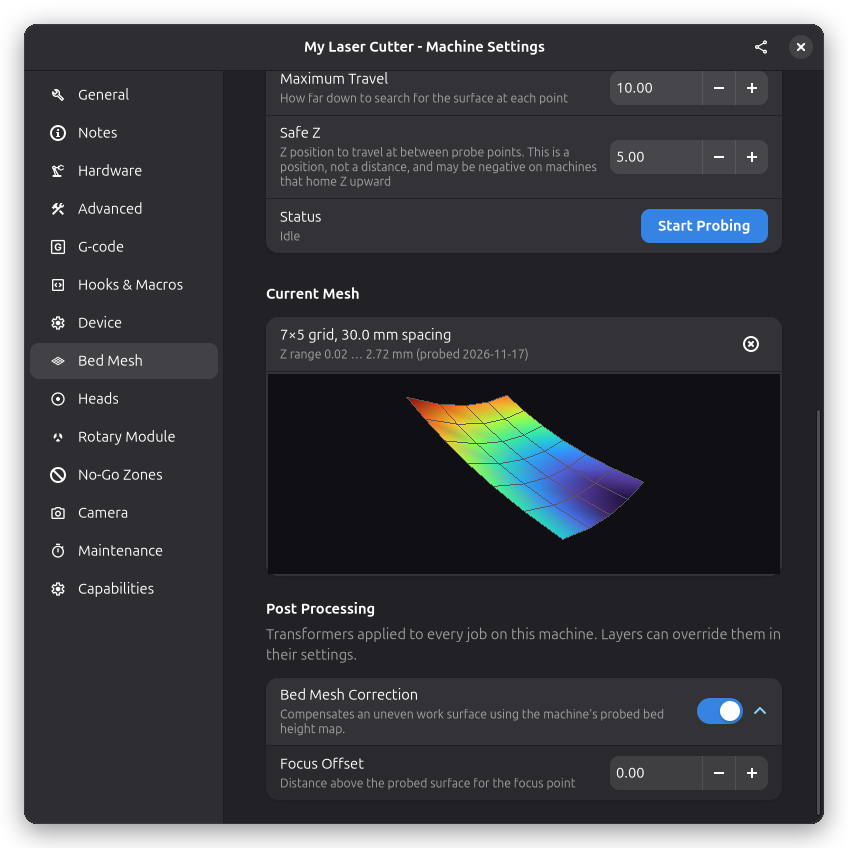
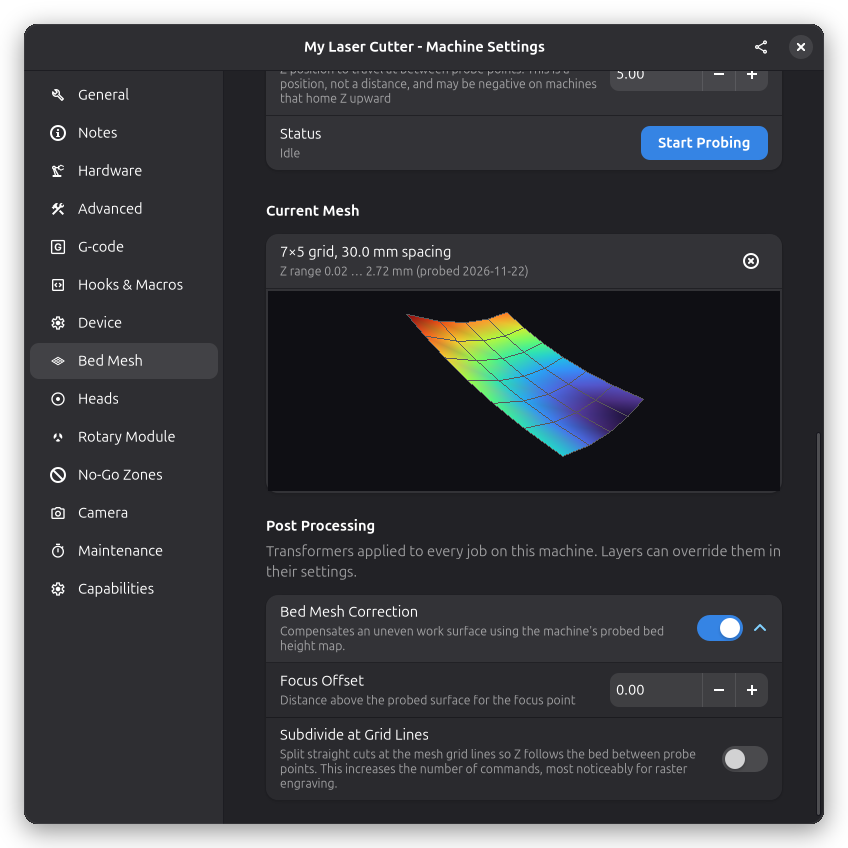
docs(machine): document bed mesh subdivision and the return lift
Describe the opt-in grid-line subdivision and the job-end lift to the probe Safe Z in the Bed Mesh page, in every tracked language, and refresh the page screenshot.

diff --git a/website/i18n/hi/docusaurus-plugin-content-docs/current/machine/bed-mesh.md b/website/i18n/hi/docusaurus-plugin-content-docs/current/machine/bed-mesh.md
@@ -1,60 +1,62 @@
 ---
 description:
-  "अपने लेज़र की कार्य सतह को ग्रिड पर जांचें और असमान बेड की स्वतः भरपाई करें। बड़ी या लहरदार बेड
-  पर फोकस बिंदु को सामग्री पर बनाए रखता है।"
+  "अपने लेज़र की कार्य सतह को ग्रिड पर जांचें और असमान बेड की स्वतः भरपाई करें। बड़ी या लहरदार बेड पर फोकस बिंदु को
+  सामग्री पर बनाए रखता है।"
 ---
 
 # बेड मेश
 
-बड़ी कार्य सतहें शायद ही कभी बिल्कुल समतल होती हैं। जब बेड की ऊंचाई आपके लेज़र की फोकस गहराई से अधिक
-बदलती है, तो सामग्री पर कट असंगत हो जाते हैं। बेड मेश सुविधा एक ग्रिड पर सतह की ऊंचाई जांचती है और
-टूलपाथ की Z-अक्ष की भरपाई करती है ताकि फोकस बिंदु वास्तविक सतह का पालन करे।
+बड़ी कार्य सतहें शायद ही कभी बिल्कुल समतल होती हैं। जब बेड की ऊंचाई आपके लेज़र की फोकस गहराई से अधिक बदलती है, तो
+सामग्री पर कट असंगत हो जाते हैं। बेड मेश सुविधा एक ग्रिड पर सतह की ऊंचाई जांचती है और टूलपाथ की Z-अक्ष की भरपाई
+करती है ताकि फोकस बिंदु वास्तविक सतह का पालन करे।
 
 ![बेड मेश](/screenshots/machine-settings-bed-mesh.webp)
 
 ## आवश्यकताएँ
 
-बेड मेश के लिए Z-अक्ष वाली मशीन और जांच (प्रोब) का समर्थन करने वाला ड्राइवर आवश्यक है (वर्तमान में
-GRBL, Marlin, Smoothie और OctoPrint)। **बेड मेश** पृष्ठ **सेटिंग्स → मशीन** में तभी दिखाई देता है जब
-दोनों स्थित हों। यह पृष्ठ डिवाइस पृष्ठ के बाद स्थित है।
+बेड मेश के लिए Z-अक्ष वाली मशीन और जांच (प्रोब) का समर्थन करने वाला ड्राइवर आवश्यक है (वर्तमान में GRBL, Marlin,
+Smoothie और OctoPrint)। **बेड मेश** पृष्ठ **सेटिंग्स → मशीन** में तभी दिखाई देता है जब दोनों स्थित हों। यह पृष्ठ
+डिवाइस पृष्ठ के बाद स्थित है।
 
 ## बेड की जांच करना
 
 **सेटिंग्स → मशीन** खोलें और **बेड मेश** पृष्ठ पर जाएँ।
 
-1. **जांच ग्रिड**: जांचने के लिए क्षेत्र (X/Y मूल, चौड़ाई, ऊंचाई) और ग्रिड घनत्व (कॉलम और पंक्तियाँ)
-   परिभाषित करें। पृष्ठ जांच बिंदुओं की संख्या और अनुमानित अवधि दिखाता है। घने ग्रिड सतह का अधिक
-   सटीक पालन करते हैं, परंतु अधिक समय लेते हैं।
-2. **जांच**: जांच फीड दर, प्रत्येक बिंदु पर सतह खोजने के लिए हेड कितना नीचे जा सकता है (अधिकतम
-   यात्रा), और बिंदुओं के बीच चलने के लिए सुरक्षित Z-ऊंचाई कॉन्फ़िगर करें। सुरक्षित Z एक स्थिति है,
-   दूरी नहीं; जिन मशीनों में Z ऊपर की ओर होम होता है, वहाँ यह ऋणात्मक हो सकती है।
-3. **जांच प्रारंभ करें** पर क्लिक करें। मशीन सर्पिल क्रम में हर ग्रिड बिंदु पर जाती है और हर जगह सतह
-   को छूती है; 3D दृश्य परिणाम आने पर लाइव भरता जाता है। आप किसी भी समय रन को रोक सकते हैं; मेश केवल
-   पूर्ण ग्रिड पूरा होने पर सहेजा जाता है।
+1. **जांच ग्रिड**: जांचने के लिए क्षेत्र (X/Y मूल, चौड़ाई, ऊंचाई) और ग्रिड घनत्व (कॉलम और पंक्तियाँ) परिभाषित करें।
+   पृष्ठ जांच बिंदुओं की संख्या और अनुमानित अवधि दिखाता है। घने ग्रिड सतह का अधिक सटीक पालन करते हैं, परंतु अधिक समय
+   लेते हैं।
+2. **जांच**: जांच फीड दर, प्रत्येक बिंदु पर सतह खोजने के लिए हेड कितना नीचे जा सकता है (अधिकतम यात्रा), और बिंदुओं के
+   बीच चलने के लिए सुरक्षित Z-ऊंचाई कॉन्फ़िगर करें। सुरक्षित Z एक स्थिति है, दूरी नहीं; जिन मशीनों में Z ऊपर की ओर होम
+   होता है, वहाँ यह ऋणात्मक हो सकती है।
+3. **जांच प्रारंभ करें** पर क्लिक करें। मशीन सर्पिल क्रम में हर ग्रिड बिंदु पर जाती है और हर जगह सतह को छूती है; 3D
+   दृश्य परिणाम आने पर लाइव भरता जाता है। आप किसी भी समय रन को रोक सकते हैं; मेश केवल पूर्ण ग्रिड पूरा होने पर
+   सहेजा जाता है।
 
-मेश मशीन प्रोफ़ाइल के साथ सहेजा जाता है और रंगीन 3D सतह के रूप में दिखाया जाता है: नीले क्षेत्र नीचे
-और लाल क्षेत्र ऊपर होते हैं। यदि आप ऊंचाई मुआवज़ा नहीं चाहते तो **मेश हटाएं** बटन से इसे हटा दें।
+मेश मशीन प्रोफ़ाइल के साथ सहेजा जाता है और रंगीन 3D सतह के रूप में दिखाया जाता है: नीले क्षेत्र नीचे और लाल क्षेत्र ऊपर
+होते हैं। यदि आप ऊंचाई मुआवज़ा नहीं चाहते तो **मेश हटाएं** बटन से इसे हटा दें।
 
-:::note जांच के दौरान हेड पूरे ग्रिड क्षेत्र पर चलता है। बेड से ऐसी वस्तुएँ हटा दें जो जांच में बाधा
-डाल सकती हैं, और सुनिश्चित करें कि आपकी जांच नोक (या लेज़र क्रॉसहेयर) हर ग्रिड बिंदु पर सतह तक पहुंच
-सके। :::
+:::note जांच के दौरान हेड पूरे ग्रिड क्षेत्र पर चलता है। बेड से ऐसी वस्तुएँ हटा दें जो जांच में बाधा डाल सकती हैं, और
+सुनिश्चित करें कि आपकी जांच नोक (या लेज़र क्रॉसहेयर) हर ग्रिड बिंदु पर सतह तक पहुंच सके। :::
 
 ## मेश लागू करना
 
 जांच केवल ऊंचाई मैप रिकॉर्ड करती है — इसे लागू करना प्रति जॉब नियंत्रित होता है:
 
-- **जॉब्स पर डिफ़ॉल्ट रूप से लागू करें**: इस मशीन पर हर जॉब की Z-अक्ष की भरपाई के लिए बेड मेश पृष्ठ
-  पर यह स्विच चालू करें।
-- **प्रति-लेयर ओवरराइड**: लेयर सेटिंग्स में (लेयर सेटिंग्स → पोस्ट प्रोसेसिंग), मशीन डिफ़ॉल्ट
-  **कस्टमाइज़** और **अक्षम** क्रियाओं के साथ दिखता है। कस्टमाइज़ करने पर सुधार लेयर में कॉपी हो जाता
-  है, जहाँ आप **फोकस ऑफ़सेट** समायोजित कर सकते हैं (जांची गई सतह से फोकस बिंदु कितना ऊपर होना
-  चाहिए); अक्षम करने पर सुधार केवल उस लेयर के लिए बंद हो जाता है। लेयर की प्रविष्टि हटाने पर मशीन
-  डिफ़ॉल्ट फिर लागू हो जाता है।
+- **जॉब्स पर डिफ़ॉल्ट रूप से लागू करें**: इस मशीन पर हर जॉब की Z-अक्ष की भरपाई के लिए बेड मेश पृष्ठ पर यह स्विच चालू
+  करें।
+- **प्रति-लेयर ओवरराइड**: लेयर सेटिंग्स में (लेयर सेटिंग्स → पोस्ट प्रोसेसिंग), मशीन डिफ़ॉल्ट **कस्टमाइज़** और **अक्षम**
+  क्रियाओं के साथ दिखता है। कस्टमाइज़ करने पर सुधार लेयर में कॉपी हो जाता है, जहाँ आप **फोकस ऑफ़सेट** समायोजित कर
+  सकते हैं (जांची गई सतह से फोकस बिंदु कितना ऊपर होना चाहिए); अक्षम करने पर सुधार केवल उस लेयर के लिए बंद हो जाता
+  है। लेयर की प्रविष्टि हटाने पर मशीन डिफ़ॉल्ट फिर लागू हो जाता है।
+- **ग्रिड लाइनों पर उपविभाजन**: सीधे कटों को मेश ग्रिड लाइनों पर विभाजित करने के लिए इसे चालू करें, ताकि Z जांच
+  बिंदुओं के बीच भी बेड के आकार का पालन करे। इससे अधिक कमांड बनते हैं, विशेष रूप से रास्टर उत्कीर्णन में।
 
-सुधार कटिंग और ट्रैवल दोनों गतियों पर लागू होता है, और चाप चाप ही रहते हैं (वे हेलिक्स बन जाते हैं)।
-यह मशीन निर्देशांकों में अंतिम टूलपाथ पर चलता है और सक्रिय वर्क कोऑर्डिनेट सिस्टम के Z ऑफ़सेट को
-ध्यान में रखता है, इसलिए Z 0 पर जॉब कच्चे जांचे गए मशीन Z के बजाय बेड की ऊंचाई और फोकस ऑफ़सेट का
-पालन करता है।
+सुधार कटिंग और ट्रैवल दोनों गतियों पर लागू होता है, और चाप चाप ही रहते हैं (वे हेलिक्स बन जाते हैं)। यह मशीन निर्देशांकों
+में अंतिम टूलपाथ पर चलता है और सक्रिय वर्क कोऑर्डिनेट सिस्टम के Z ऑफ़सेट को ध्यान में रखता है, इसलिए Z 0 पर जॉब कच्चे
+जांचे गए मशीन Z के बजाय बेड की ऊंचाई और फोकस ऑफ़सेट का पालन करता है।
+
+जॉब के अंत में मूल बिंदु पर लौटने से पहले, हेड उस सेफ़ Z तक उठता है जिसका उपयोग जांच के दौरान किया गया था, ताकि वह
+अंतिम कट की ऊंचाई पर घर न लौटे।
 
 ---
 

diff --git a/website/i18n/uk/docusaurus-plugin-content-docs/current/machine/bed-mesh.md b/website/i18n/uk/docusaurus-plugin-content-docs/current/machine/bed-mesh.md
@@ -54,11 +54,17 @@ Smoothie та OctoPrint). Сторінка **Мережа столу** з'явл
   в шар, де можна змінити **зміщення фокуса** (наскільки вище за зондовану поверхню має бути точка
   фокуса); «Вимкнути» вимикає корекцію лише для цього шару. Видалення запису шару повертає типовий
   параметр машини.
+- **Поділ на лініях сітки**: Увімкніть цей параметр, щоб розділяти прямі різи на лініях сітки, а Z
+  слідувала за столом між точками зондування. Це створює більше команд, особливо під час растрового
+  гравіювання.
 
 Корекція застосовується однаково до різальних і переміщувальних рухів, а дуги залишаються дугами
 (вони стають гелікоїдальними). Вона виконується на фінальній траєкторії в машинних координатах і
 враховує зміщення Z активної робочої системи координат, тому завдання на Z 0 слідує висоті столу
 плюс зміщення фокуса, а не необробленій зондованій машинній Z.
+
+Перед поверненням до початку координат наприкінці завдання головка піднімається до безпечної Z,
+використаної під час зондування, щоб не повертатися додому на висоті останнього різу.
 
 ---
 

diff --git a/website/i18n/fr/docusaurus-plugin-content-docs/current/machine/bed-mesh.md b/website/i18n/fr/docusaurus-plugin-content-docs/current/machine/bed-mesh.md
@@ -57,12 +57,18 @@ Le sondage ne fait qu'enregistrer la carte de hauteur — son application se con
   **décalage de mise au point** (la distance au-dessus de la surface sondée à laquelle doit se
   trouver le point de mise au point) ; Désactiver coupe la correction pour ce calque uniquement.
   Supprimer l'entrée du calque ramène au réglage par défaut de la machine.
+- **Subdiviser aux lignes de la grille** : Activez cette option pour couper les traits rectilignes
+  aux lignes de la grille afin que Z suive le plateau entre les points de sondage. Cela génère plus
+  de commandes, surtout en gravure raster.
 
 La correction s'applique aussi bien aux mouvements de découpe qu'aux déplacements, et les arcs
 restent des arcs (ils deviennent hélicoïdaux). Elle s'exécute sur le parcours final en coordonnées
 machine et tient compte du décalage Z du système de coordonnées de travail actif : un travail à Z 0
 suit donc la hauteur du plateau plus le décalage de mise au point, et non la Z machine brute sondée.
-d'origine de la machine.
+
+Avant le retour à l'origine en fin de travail, la tête remonte à la Z de sécurité utilisée pendant
+le sondage, afin de ne pas revenir à l'origine à la hauteur de la dernière coupe. d'origine de la
+machine.
 
 ---
 

diff --git a/website/i18n/es/docusaurus-plugin-content-docs/current/machine/bed-mesh.md b/website/i18n/es/docusaurus-plugin-content-docs/current/machine/bed-mesh.md
@@ -54,11 +54,17 @@ Sondear solo registra el mapa de altura; aplicarlo se controla por trabajo:
   copia la corrección a la capa, donde puedes ajustar el **desfase de enfoque** (cuánto por encima
   de la superficie sondeada debe estar el punto de enfoque); desactivar apaga la corrección solo
   para esa capa. Al eliminar la entrada de la capa se vuelve al valor por defecto de la máquina.
+- **Subdividir en las líneas de la cuadrícula**: Activa esta opción para dividir los cortes rectos
+  en las líneas de la cuadrícula, de modo que Z siga la cama entre los puntos de sondeo. Genera más
+  comandos, sobre todo al grabar imágenes rasterizadas.
 
 La corrección se aplica por igual a los movimientos de corte y de desplazamiento, y los arcos siguen
 siendo arcos (se vuelven helicoidales). Se ejecuta sobre el trayecto final en coordenadas de máquina
 y tiene en cuenta el desfase Z del sistema de coordenadas de trabajo activo, de modo que un trabajo
 en Z 0 sigue la altura de la cama más el desfase de enfoque en lugar de la Z de máquina sondeada.
+
+Antes del movimiento de retorno al origen al final de un trabajo, la cabeza sube a la Z segura usada
+durante el sondeo, de modo que no vuelve al origen a la altura del último corte.
 
 ---
 

diff --git a/website/i18n/de/docusaurus-plugin-content-docs/current/machine/bed-mesh.md b/website/i18n/de/docusaurus-plugin-content-docs/current/machine/bed-mesh.md
@@ -54,11 +54,17 @@ Das Aufnehmen des Netzes ändert nur die Höhenkarte — die Anwendung wird pro 
   kopiert die Korrektur in die Ebene, wo du den **Fokusversatz** ändern kannst (wie weit über der
   abgetasteten Oberfläche der Fokuspunkt liegen soll); Deaktivieren schaltet die Korrektur nur für
   diese Ebene aus. Entfernt man den Eintrag der Ebene, greift wieder der Maschinenstandard.
+- **Unterteilung an Rasterlinien**: Aktiviere diese Option, um gerade Schnitte an den Rasterlinien
+  des Netzes zu teilen, damit die Z-Achse auch zwischen den Abtastpunkten der Bettform folgt. Das
+  erzeugt mehr Befehle, besonders beim Rastergravieren.
 
 Die Korrektur gilt für Schneide- und Bewegungsbewegungen gleichermaßen, und Bögen bleiben Bögen (sie
 werden zu Helixbewegungen). Sie läuft auf dem fertigen Werkzeugweg in Maschinenkoordinaten und
 berücksichtigt den Z-Versatz des aktiven Arbeitskoordinatensystems, sodass ein Auftrag bei Z 0 der
 Betthöhe plus Fokusversatz folgt statt der rohen abgetasteten Maschinen-Z.
+
+Vor der Rückkehr zum Ursprung am Ende eines Auftrags hebt sich der Kopf auf das beim Abtasten
+verwendete Sicherheits-Z, damit er nicht auf der letzten Schnitthöhe nach Hause fährt.
 
 ---
 

diff --git a/website/i18n/zh-CN/docusaurus-plugin-content-docs/current/machine/bed-mesh.md b/website/i18n/zh-CN/docusaurus-plugin-content-docs/current/machine/bed-mesh.md
@@ -31,8 +31,11 @@ description: "对激光工作台表面进行网格探测，自动补偿不平整
 
 - **默认应用到作业**：在床面网格页面上打开此开关，即可补偿此机器上每个作业的 Z 轴。
 - **按层覆盖**：在图层设置（图层设置 → 后处理）中，机器默认值会显示**自定义**和**禁用**操作。自定义会将该校正复制到图层中，你可以在那里调整**焦距偏移**（焦点应位于探测表面上方多远处）；禁用则仅在该图层关闭校正。删除图层的条目后会回退到机器默认值。
+- **在网格线处细分**：启用此选项可在网格线处分割直线切割，使 Z 在探测点之间也跟随床面。这会生成更多指令，在光栅雕刻时尤为明显。
 
 该校正同等作用于切割移动和空移，且圆弧保持圆弧（变为螺旋线）。它在最终刀具路径上以机器坐标运行，并会考虑当前工作坐标系的 Z 偏移，因此 Z=0 处的作业会跟随床面高度加焦距偏移，而不是原始探测的机器 Z。
+
+作业结束返回原点前，头部会先抬升到探测时使用的安全 Z，因此不会在最后一次切割的高度上返回原点。
 
 ---
 

diff --git a/website/i18n/pt-BR/docusaurus-plugin-content-docs/current/machine/bed-mesh.md b/website/i18n/pt-BR/docusaurus-plugin-content-docs/current/machine/bed-mesh.md
@@ -54,11 +54,17 @@ Medir apenas registra o mapa de altura — aplicá-lo é controlado por trabalho
   Personalizar copia a correção para a camada, onde você pode ajustar o **deslocamento de foco** (a
   que distância acima da superfície medida o ponto de foco deve ficar); desativar desliga a correção
   apenas para essa camada. Remover a entrada da camada volta ao padrão da máquina.
+- **Subdividir nas linhas da grade**: Ative esta opção para dividir cortes retos nas linhas da
+  grade, de modo que Z siga a mesa entre os pontos de medição. Isso gera mais comandos,
+  principalmente na gravação raster.
 
 A correção se aplica tanto a movimentos de corte quanto de deslocamento, e os arcos continuam arcos
 (tornam-se helicoidais). Ela roda no trajeto final em coordenadas da máquina e considera o
 deslocamento Z do sistema de coordenadas de trabalho ativo, de modo que um trabalho em Z 0 segue a
 altura da mesa mais o deslocamento de foco, em vez da Z de máquina medida bruta.
+
+Antes do movimento de retorno à origem no fim do trabalho, a cabeça sobe para a Z de segurança usada
+durante a medição, para não voltar à origem na altura do último corte.
 
 ---
 

diff --git a/website/docs/machine/bed-mesh.md b/website/docs/machine/bed-mesh.md
@@ -52,11 +52,17 @@ Probing only records the height map — applying it is controlled per job:
   into the layer, where you can adjust the **Focus Offset** (how far above the probed surface the
   focus point should be); disabling turns the correction off for that layer only. Removing the
   layer's entry falls back to the machine default.
+- **Subdivide at Grid Lines**: Enable this switch to split straight cuts at the mesh grid lines so Z
+  follows the bed between probe points. It generates more commands, most noticeably for raster
+  engraving.
 
 The correction applies to cutting moves and travel moves alike, and arcs stay arcs (they become
 helical). It runs on the final toolpath in machine coordinates and accounts for the active work
 coordinate system's Z offset, so a job at Z 0 follows the bed height at the focus offset rather than
 the raw probed machine Z.
+
+Before the job-end return-to-origin move, the head lifts to the Safe Z used for probing, so it does
+not travel home at the last cut height.
 
 ---
 
